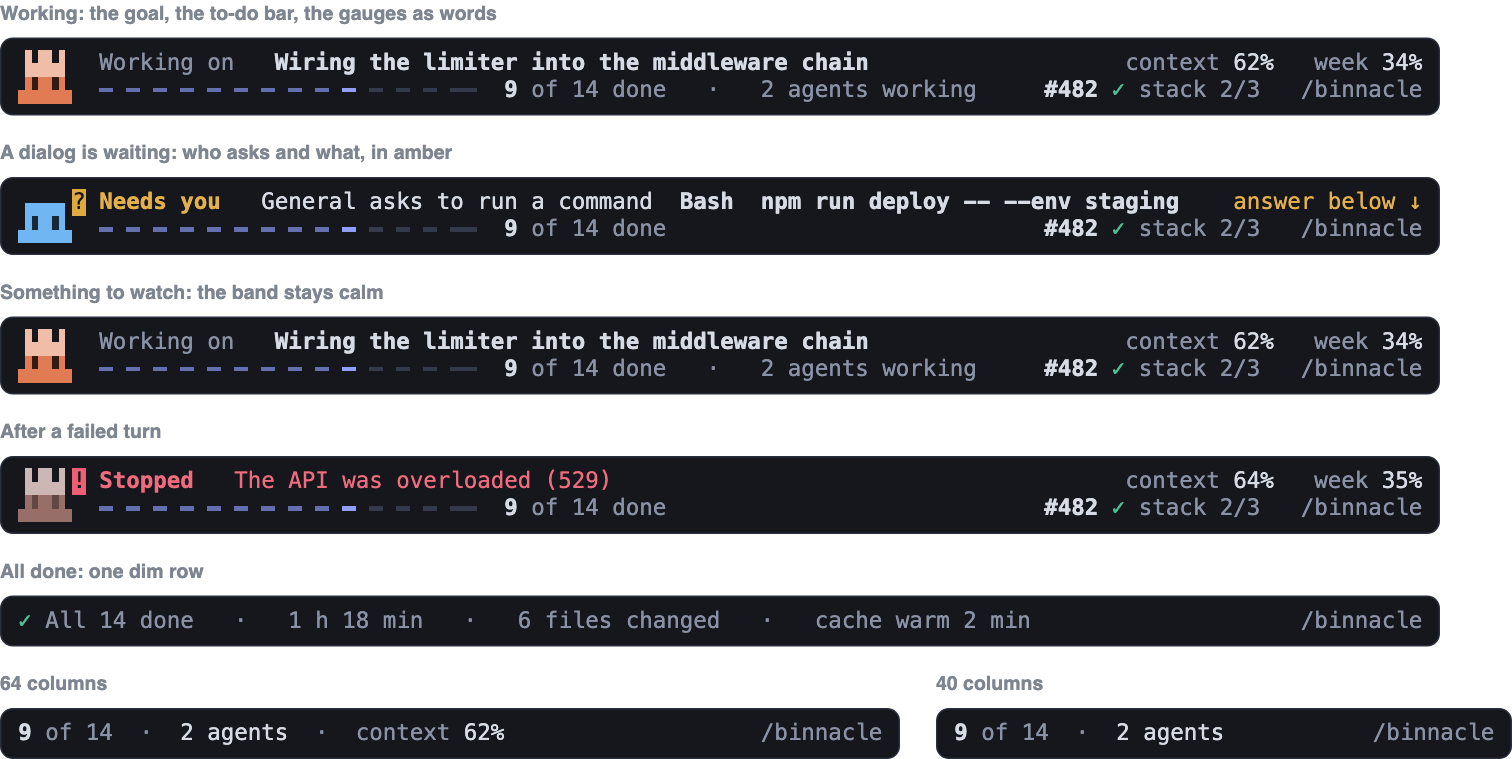
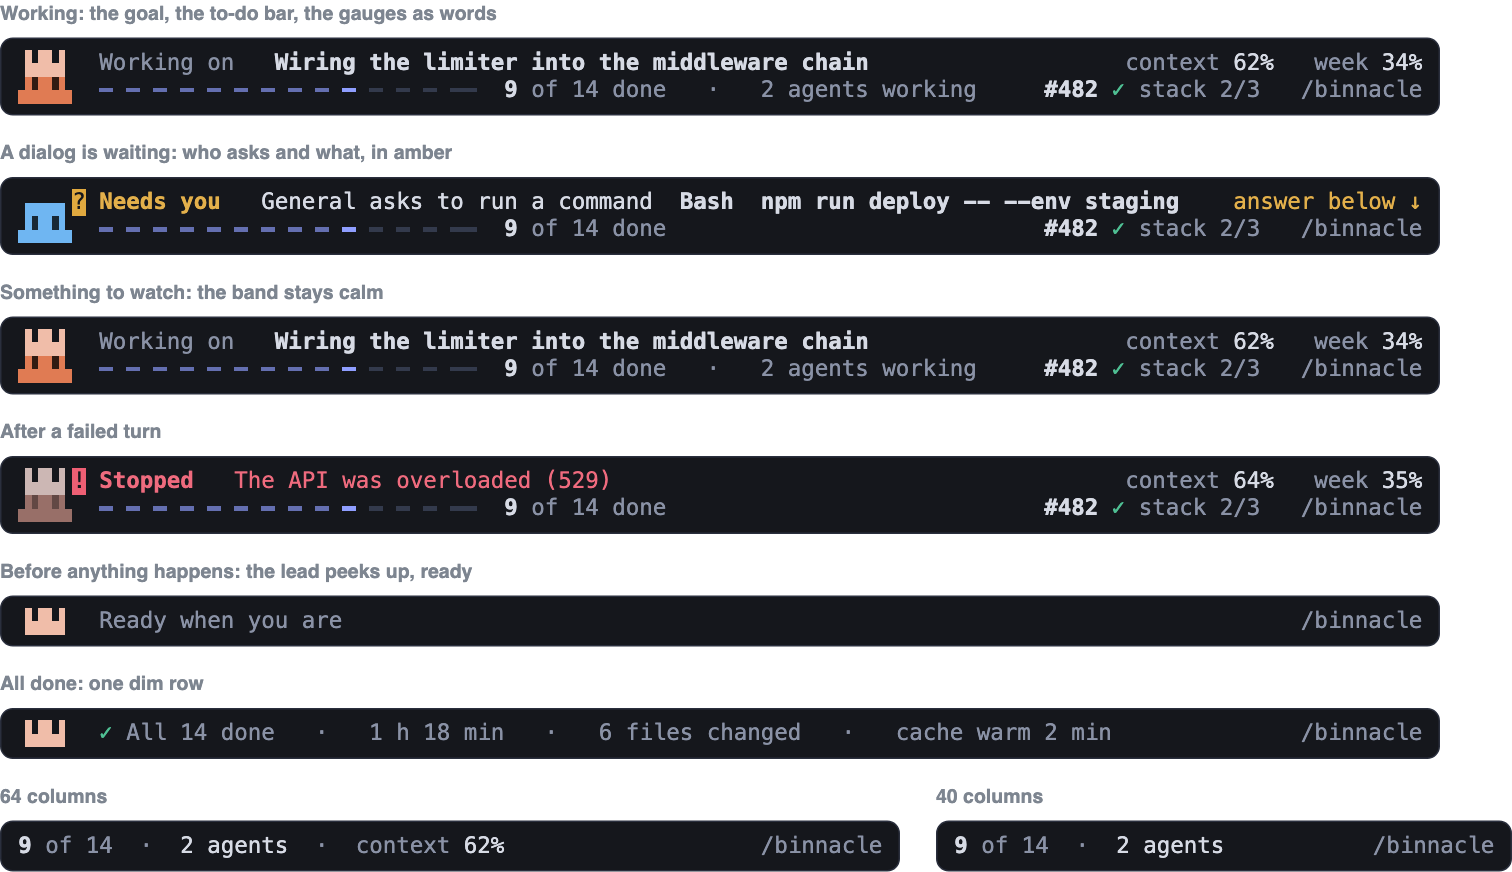
The band is never empty: a companion peeks up from below
- R56: an empty session shows one row with the lead's critter peeking up
  (its head in a one-row window), "Ready when you are" and /binnacle; at
  idle the same peeking critter sits beside the dim summary.
- README: the band section, the band table row and image (with the empty
  session), the Show as row as the one hotkey exception; HANDOVER, rulings.
- Band tests for the companion row; a fidelity deviation for the idle row.

diff --git a/mod/hooks/views/band.tsx b/mod/hooks/views/band.tsx
@@ -296,6 +296,37 @@ function rowTwo(ctx: ViewCtx, $: EngineInterface, m: BandModel, room: number, co
   return line(ctx, $, 'band-row-2', spread(left, mc, room))
 }
 
+/** What the companion says in an empty session (R56). */
+export const READY_WORDS = 'Ready when you are'
+
+/**
+ * The companion row (R56): the lead's micro critter peeking up from below,
+ * its head alone above the prompt (a one-row window over its two rows), then
+ * the words. The band is never empty: an empty session reads
+ * `Ready when you are … /binnacle`, and at idle the dim summary sits beside it.
+ */
+function peekRow(ctx: ViewCtx, $: EngineInterface, runs: Run[]): RenderElement {
+  const { Box } = $.ui.resolve(ctx.e)
+  const room = Math.max(1, ctx.cols - CRITTER_COLUMNS - CRITTER_GAP)
+  const c = critterArgs('lead', 'working', { size: 'micro', ground: ctx.ground ?? 'night', roleWord: false })
+  return (
+    <Box key="band-peek" flexDirection="row">
+      <Box key="band-peek-window" width={CRITTER_COLUMNS} height={1} overflow="hidden" flexShrink={0}>
+        {inst(ctx, $, { key: 'band-peek-critter', ...c })}
+      </Box>
+      <Box key="band-peek-gap" width={CRITTER_GAP} flexShrink={0} />
+      <Box key="band-peek-words" width={room} flexShrink={0}>
+        {line(ctx, $, 'band-peek-line', runs.length > 0 ? fitRow(runs, room) : runs)}
+      </Box>
+    </Box>
+  )
+}
+
+/** The runs fitted to `room`, `/binnacle` kept at the right. */
+function fitRow(runs: Run[], room: number): Run[] {
+  return runs.reduce((n, r) => n + r.text.length, 0) <= room ? runs : trimRuns(runs, room)
+}
+
 /** The two rows: the micro critter at 0, the words from 6. */
 function twoRows(ctx: ViewCtx, $: EngineInterface, m: BandModel, countCue = false): RenderElement {
   const { Box } = $.ui.resolve(ctx.e)
@@ -381,7 +412,7 @@ export function registerBand(on: On, options: { look?: string; ground?: unknown;
       const m = bandModel(t, u, now, needsLimits(), paneCovered(now), paneWatching(now))
       const isStrip = u.strip === true
       const trying = u.showAsTry === true
-      if (m.nothing && !isStrip && !trying) return next(e)
+      // R56: the band is never empty; an empty session shows the companion (below, once ctx is built).
 
       const cols = e.props.bodyColumns
       // The Rasters here are all still, so the paint clock never blits the band.
@@ -390,7 +421,7 @@ export function registerBand(on: On, options: { look?: string; ground?: unknown;
       const chosen = lookAsked(lookOption() ?? options.look, theme)
       const look = lookFor($.ui.resolve(e), e.surface, chosen !== undefined ? { look: chosen } : {})
       const ctx: ViewCtx = { e: e as RenderInput, t, u, cols, now, look, site: BAND_SITE, ground: groundOf(options.ground, theme), pr }
-      if (!isStrip) {
+      if (!isStrip && !m.nothing) {
         // `/binnacle` stays pressable beside the Svg: a press opens the pane, as the command does.
         const svg = bandSvgOf($, { e: e as RenderInput, look, t, u, now, cols, model: m, ground: ctx.ground ?? 'night', presses: [{ key: 'band-mc', label: MC, onPress: () => leaveStrip($) }] })
         if (svg !== null) return svg
@@ -408,7 +439,12 @@ export function registerBand(on: On, options: { look?: string; ground?: unknown;
         )
       }
       const maxRows = e.props.maxRows - (tryRow !== null ? 1 : 0)
-      if (m.nothing && !isStrip && tryRow !== null) return tryRow
+      if (m.nothing && !isStrip) {
+        const room = Math.max(1, cols - CRITTER_COLUMNS - CRITTER_GAP)
+        return withTry(peekRow(ctx, $, spread([dim(READY_WORDS)], [dim(MC)], room)))
+      }
+      // R56: at idle the companion peeks beside the dim summary.
+      if (m.form === 'idle' && !isStrip) return withTry(peekRow(ctx, $, oneRow(m, Math.max(1, cols - CRITTER_COLUMNS - CRITTER_GAP))))
       const one = line(ctx, $, 'band', oneRow(m, cols))
       if (isStrip) return withTry(stripBandView(ctx, $, { maxRows, line: one, after: () => leaveStrip($) }))
       const two = u.paneOpen !== true && cols >= TWO_ROWS_FROM && maxRows >= 2 && m.form !== 'idle'

diff --git a/mod/hooks/views/band.test.tsx b/mod/hooks/views/band.test.tsx
@@ -147,28 +147,27 @@ test('the band holds no Button in any form', async ($, on) => {
   }
 })
 
-test('draws no row for an empty session', async ($, on) => {
+// R56 (meaning changed): the band is never empty. An empty session shows the companion: the lead peeking up, "Ready when you are", /binnacle.
+test('R56: an empty session draws the companion row, not nothing', async ($, on) => {
   seed(on, empty)
-  on('ui.render', ($, e) => {
-    const { Text } = $.ui.resolve(e)
-    return <Text>engine</Text>
-  })
   for (const surface of SURFACES) {
     const ui = await $.ui.mount({ ...BAND(), surface })
-    expect(await ui.find({ type: 'Text', text: /\/binnacle/ })).toBe(undefined)
-    expect((await ui.find({ type: 'Text' }))?.text).toBe('engine')
+    const rows = screen(await ui.drawn())
+    // One row: the critter's window is one row high (the kit's screen does not clip a Box's height, so a Raster's second row may show here).
+    expect(rows.length).toBeLessThanOrEqual(2)
+    expect((await ui.find({ type: 'Box', key: 'band-peek-window' }))?.props).toMatchObject({ height: 1, overflow: 'hidden' })
+    expect(rows[0]).toContain('Ready when you are')
+    expect(rows[0]!.trimEnd().endsWith('/binnacle')).toBe(true)
     await ui.unmount()
   }
 })
 
-test('main alone, running forever, is not a running agent', async ($, on) => {
+test('main alone, running forever, is not a running agent: the band stays the companion row (R56)', async ($, on) => {
   seed(on, empty)
-  on('ui.render', ($, e) => {
-    const { Text } = $.ui.resolve(e)
-    return <Text>engine</Text>
-  })
   const ui = await $.ui.mount({ ...BAND(), surface: 'terminal' })
-  expect((await ui.find({ type: 'Text' }))?.text).toBe('engine')
+  const rows = screen(await ui.drawn())
+  expect(rows.join('\n')).toContain('Ready when you are')
+  expect(rows.join('\n')).not.toMatch(/agents? working/)
   await ui.unmount()
 })
 
@@ -374,7 +373,8 @@ test('idle is one dim line at every width and in either pane state: the tick, th
     for (const cols of [140, 104, 64, 40]) {
       const rows = await bandRows($, cols, 'mobile')
       expect([cols, rows.length]).toEqual([cols, 1])
-      expect(rows[0]!.startsWith('✓ All 14 done')).toBe(true)
+      // R56: the companion peeks in the first 5 columns, the words from column 6.
+      expect(rows[0]!.slice(6).startsWith('✓ All 14 done')).toBe(true)
       expect(rows[0]!.endsWith('/binnacle')).toBe(true)
       expect(rows[0]!.length).toBeLessThanOrEqual(cols)
     }
@@ -424,10 +424,12 @@ test('rich: the band draws one micro critter as a still Raster of 5 by 2 cells, 
   expect([p.columns, p.rows]).toEqual([5, 2])
   expect(p.cells).toBe(encode(critterBox('lead', 'working', 'micro')))
   await ui.unmount()
-  // The idle line has no critter.
+  // R56: the idle line has the companion: the same micro critter, one row of it showing in a one-row window.
   reseed(idle())
   const quiet = await $.ui.mount({ ...BAND({ bodyColumns: 104 }), surface: 'terminal' })
-  expect(await quiet.findAll({ type: 'Raster' })).toEqual([])
+  const peek = await quiet.findAll({ type: 'Raster' })
+  expect(peek.map(r => r.key)).toEqual(['band-peek-critter'])
+  expect((await quiet.find({ type: 'Box', key: 'band-peek-window' }))?.props).toMatchObject({ height: 1, overflow: 'hidden' })
   await quiet.unmount()
 })
 

diff --git a/docs/readme/tools/shots.test.tsx b/docs/readme/tools/shots.test.tsx
@@ -7,6 +7,7 @@ import type { On } from 'claude-code'
 
 import type { PrState, Timeline, UiState } from '../../types'
 import { initialUi } from '../state'
+import { empty } from '../model/reduce'
 import { flaggedSession, listSession, mapSession } from './agents.fixtures.testkit'
 import { asked, busy, endedOpen, idle, NOW, stopped, watching } from './now.fixtures.testkit'
 import { critterBox, encode, CRITTER_ROLES, STATES } from './raster'
@@ -126,6 +127,7 @@ test('band-busy', async ($, on) => { world(on, busy()); await band($, 'band-busy
 test('band-asked', async ($, on) => { world(on, asked()); await band($, 'band-asked', 104) })
 test('band-watch', async ($, on) => { world(on, { ...watching(), budget: busy().budget }); await band($, 'band-watch', 104) })
 test('band-idle', async ($, on) => { world(on, idle()); await band($, 'band-idle', 104) })
+test('band-empty', async ($, on) => { world(on, empty as Timeline, initialUi, undefined); await band($, 'band-empty', 104) })
 test('band-stopped', async ($, on) => { world(on, stopped()); await band($, 'band-stopped', 104) })
 test('band-watch-64', async ($, on) => { world(on, { ...watching(), budget: busy().budget }); await band($, 'band-watch-64', 64) })
 test('band-64', async ($, on) => { world(on, busy()); await band($, 'band-64', 64) })

diff --git a/mod/hooks/views/band.fidelity.test.tsx b/mod/hooks/views/band.fidelity.test.tsx
@@ -140,12 +140,22 @@ test('fidelity: CockpitBand with Watch matches the mock but for the listed devia
   new Board('watch').patch(R25, badgeCol).patch(R49, hint(1, 104)).check('CockpitBand watch', got, 104)
 })
 
+/** R56: the companion peeks at the left of the idle row (its head: one row of the 5-wide micro critter), the words from column 6. */
+const R56 = 'R56: the lead peeks up at the left (one row of its 5-wide critter), the words from column 6'
+const peek = (row: number, width: number) => (rows: string[]): void => {
+  const m = rows[row]!.match(/^(.*?)\s*(\/binnacle)$/)
+  if (m === null) throw new Error(`patch: row ${row} has no /binnacle: ${rows[row]}`)
+  const left = '¤¤¤¤¤ ' + m[1]!
+  rows[row] = left + ' '.repeat(Math.max(1, width - left.length - '/binnacle'.length)) + '/binnacle'
+}
+
 test('fidelity: CockpitBand idle matches the mock but for the listed deviations', async ($, on) => {
   world(on, idle())
   const got = await drawn($, 104)
   new Board('idle')
     .patch('R40: the countdown is in whole minutes (the mock ticks m:ss), so "cache warm 2 min"', sub(0, 'cache warm 2:51', 'cache warm 2 min'))
     .patch(R49, hint(0, 104))
+    .patch(R56, peek(0, 104))
     .check('CockpitBand idle', got, 104)
 })
 

diff --git a/README.md b/README.md
@@ -57,7 +57,7 @@ Pick one with the **Show as** option (the Options tab, `0`, or `/config`); it ho
 | **3 Agents** | Main and every subagent or workflow agent, as a list of cards or as the Crew map. |
 | **4 Artifacts** | What the session produced: published pages, documents, results, links, changed files, kept steps, and the handoff export. |
 | **5 Steps** | Every tool call of the session, grouped by turn, filterable and searchable. A step opens in place. |
-| **Band** | Above the prompt, there even when the pane is closed: two rows with the pane closed (from 80 columns), one row while the pane is open, one dim row when all is done. |
+| **Band** | Above the prompt, always: two rows with the pane closed (from 80 columns), one row while the pane is open, one dim row when all is done. Before anything happens the lead's Critter peeks up from below beside "Ready when you are", a small companion that never leaves. |
 | **Slim** | Under 32 columns the pane is one stacked summary with no tab bar; it keeps a one-line Watch (or "quiet 30 min"). |
 | **Strip** | From 96 columns Now lies on its side; `/binnacle strip` puts that strip above the prompt instead of the pane. |
 | **Desktop app** | The Now header and the band are drawn as pictures (Svg), ending at the header, in the same words and colours. |
@@ -175,10 +175,10 @@ A toast tells you once when the context reaches 80 %.
 ### The band
 
 <p align="center">
-  <img src="docs/readme/band.png" width="900" alt="The band in seven forms. Working: the lead's Critter, 'Working on' and the goal, 'context 62%  week 34%', and a second row with the to-do bar, '9 of 14 done · 2 agents working', the PR chip '#482 ✓ stack 2/3' and '/binnacle'. A dialog waiting: the asking agent's Critter with a question-mark badge, 'Needs you' in amber, 'General asks to run a command Bash npm run deploy -- --env staging', 'answer below'. Something to watch: unchanged but for '2 to watch'. After a failed turn: 'Stopped' and the reason in red. All done: one dim row, 'All 14 done · 1 h 18 min · 6 files changed · cache warm 2 min'. At 64 columns and at 40 columns: one row that drops the goal before the count.">
+  <img src="docs/readme/band.png" width="900" alt="The band in eight forms. Before anything happens: the lead's Critter peeks up beside 'Ready when you are' and '/binnacle'. Working: the lead's Critter, 'Working on' and the goal, 'context 62%  week 34%', and a second row with the to-do bar, '9 of 14 done · 2 agents working', the PR chip '#482 ✓ stack 2/3' and '/binnacle'. A dialog waiting: the asking agent's Critter with a question-mark badge, 'Needs you' in amber, 'General asks to run a command Bash npm run deploy -- --env staging', 'answer below'. Something to watch: unchanged but for '2 to watch'. After a failed turn: 'Stopped' and the reason in red. All done: one dim row, 'All 14 done · 1 h 18 min · 6 files changed · cache warm 2 min'. At 64 columns and at 40 columns: one row that drops the goal before the count.">
 </p>
 
-The band sits above the prompt and is there even when the pane is closed, so the three answers never leave the screen. It shows one Critter (the lead, or whoever is asking), the goal, the to-do bar and the gauges as words. A dialog turns it amber and names the ask. Watch never colours it. When everything is done it shrinks to one dim row, and while the pane is open it is one compact row. A narrow band drops the gauges first, and cuts the goal only at a word.
+The band sits above the prompt and is there even when the pane is closed, so the three answers never leave the screen. It shows one Critter (the lead, or whoever is asking), the goal, the to-do bar and the gauges as words. A dialog turns it amber and names the ask. Watch never colours it. When everything is done it shrinks to one dim row with the lead peeking up beside it, and while the pane is open it is one compact row. It never disappears: before anything happens the lead's Critter peeks up from below beside "Ready when you are", so a new session already shows where Binnacle lives. It also carries the PR chip (`#482 ✓ stack 2/3`). A narrow band drops the gauges first, and cuts the goal only at a word.
 
 ### Slim, strip and the desktop app
 
@@ -304,7 +304,7 @@ Hotkeys reach the pane only while it has focus. A key acts on the thing in view:
 
 - On Artifacts the keys `o`, `c` and `g` belong to the one opened artifact or, once a file is selected, to that file; never to both.
 - Hotkeys work in the terminal and the desktop app, not in VS Code. Every action is also a button with a label, so nothing depends on a key.
-- The strip has no hotkeys, because a bare digit typed in an empty prompt could press a band button.
+- The strip has no hotkeys, because a bare digit typed in an empty prompt could press a band button. The one exception is the Show as row (`1: pane  2: band  3: strip  0: keep`), drawn only while you try the styles, where that is the point.
 
 </details>
 

diff --git a/docs/superpowers/plans/2026-11-16-cockpit-critters-rulings.md b/docs/superpowers/plans/2026-11-16-cockpit-critters-rulings.md
@@ -154,3 +154,5 @@ R54. **The arrows always walk rows.** In the pane, Up and Down move the focus ri
 R53 amended. **The styles are exclusive.** `pane`, `band` and `strip` are three viewing styles, one at a time: the pane with its one-row band; no pane and the band's two rows; no pane and the strip. Under `band` or `strip` the pane opens only for Options (`/binnacle options`), where Enter previews each style; leaving Options under `band` or `strip` closes the pane. Focus moves after a press are never awaited (an element is drawn only after the press returns, so the wait held the press, about 10 s).
 
 R55. **Try the styles where they land.** Enter on Show as switches at once: the option is written, and `band` or `strip` closes the pane and leaves Options. The band or the strip then carries one row on top, `Show as  1: pane  2: band  3: strip  0: keep`, its Buttons pressed by a bare digit typed in the empty prompt (the engine's rule for band hotkeys; the band cannot take the keys itself), so the person goes on trying styles from where they landed. `1` opens the pane on Options with the ring on Show as, where Enter goes on cycling; `0` keeps the style and the row goes. The row is drawn only while trying (`ui.showAsTry`), the one exception to the strip having no hotkeys.
+
+R56. **The band is never empty: a companion.** An empty session no longer hides the band: one row shows the lead's micro critter peeking up from below (a one-row window over its two rows, so only its head shows above the prompt), "Ready when you are" and `/binnacle`. At idle the same peeking critter sits beside the dim summary row. While working the band is unchanged. The desktop app keeps its Svg band for a session with something in it.

diff --git a/HANDOVER.md b/HANDOVER.md
@@ -57,7 +57,7 @@ read them before changing words, colours or the alert rules.
   mode), then dim "asked to run a command · running". Questions, plans and
   MCP input stay amber while they last. Permission notifications need the
   pane open; Claude Code notifies for its own dialogs either way.
-- **Band:** one row above the prompt (the lead's or the asker's Critter, the
+- **Band:** always there (R56: an empty session shows the lead peeking up beside "Ready when you are"); one row above the prompt (the lead's or the asker's Critter, the
   goal, the context and week figures, `/binnacle`), a second row with the to-do bar
   when wide, one dim row when everything is done.
 - **Surfaces:** the terminal draws Rasters (cell pictures) and text; the
